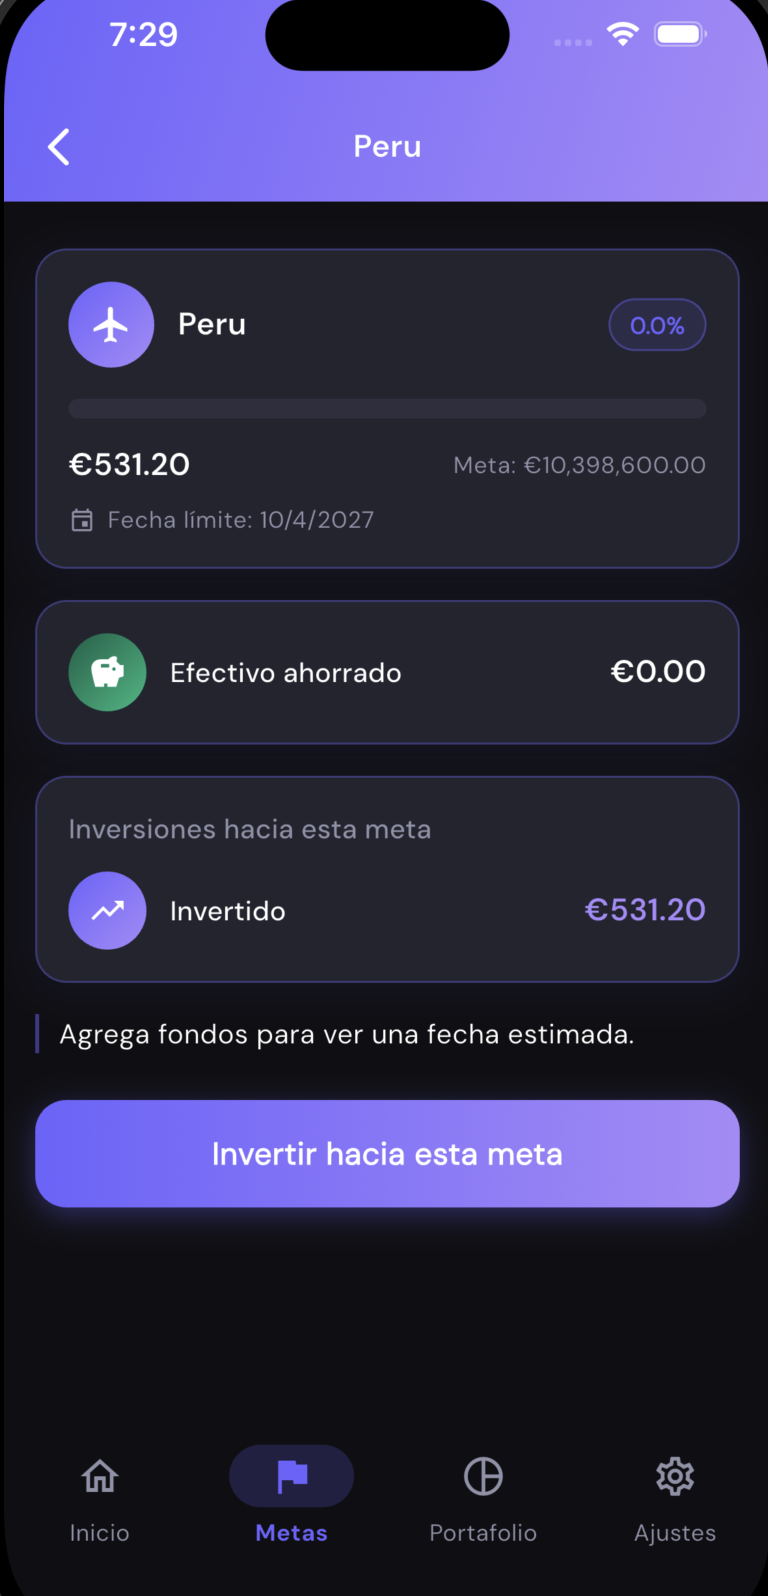
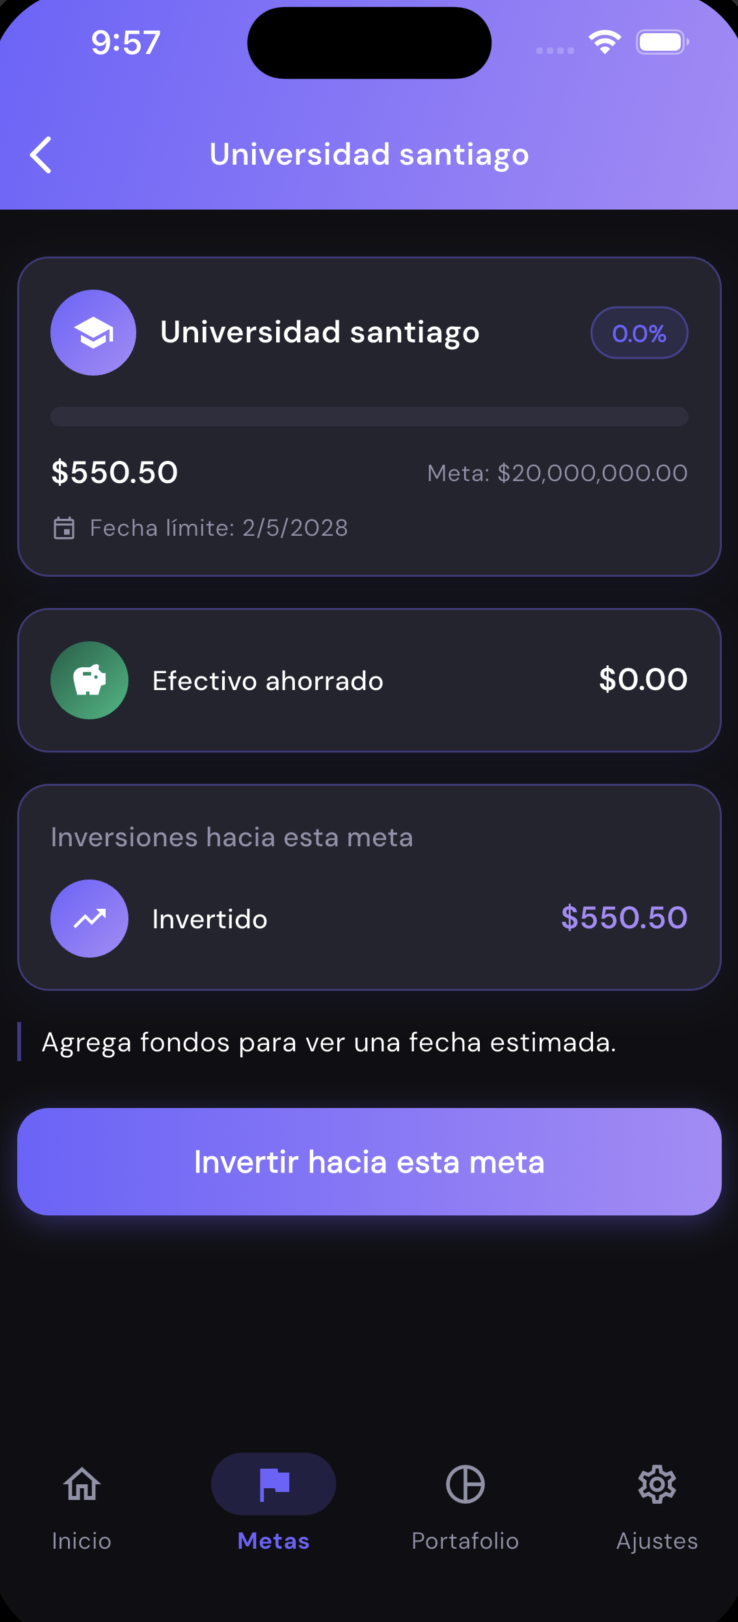
claude: docs: screenshots — Owl History dark mode (02b/02c) + Goal Detail light/dark (08b, S18 gap)

diff --git a/docs/design/screenshots/SCREENS.md b/docs/design/screenshots/SCREENS.md
@@ -25,8 +25,8 @@
 |----|--------|-------|----------------|-------|------|
 | 01 | Home / Dashboard | `/home` | `dashboard/presentation/screens/dashboard_screen.dart` | `light_mode/01_home.png` | `dark_mode/01_home.png` |
 | 02 | Owl AI Sheet | `/home` → Owl AI button | `dashboard/presentation/screens/dashboard_screen.dart` (`_OwlAdvisorSheet`) | `light_mode/02_owl_ai.png` | `dark_mode/02_owl_ai.png` |
-| 02b | Owl History (list) | `/home/owl-history` | `dashboard/presentation/screens/owl_history_screen.dart` | `light_mode/02b_owl_history.png` | — |
-| 02c | Owl History detail (sheet) | `/home/owl-history` → tap session | `dashboard/presentation/screens/owl_history_screen.dart` (`_OwlHistoryDetailSheet`) | `light_mode/02c_owl_history_detail.png` | — |
+| 02b | Owl History (list) | `/home/owl-history` | `dashboard/presentation/screens/owl_history_screen.dart` | `light_mode/02b_owl_history.png` | `dark_mode/02b_owl_history.png` |
+| 02c | Owl History detail (sheet) | `/home/owl-history` → tap session | `dashboard/presentation/screens/owl_history_screen.dart` (`_OwlHistoryDetailSheet`) | `light_mode/02c_owl_history_detail.png` | `dark_mode/02c_owl_history_detail.png` |
 | 03 | Recent Activity | `/home/activity` | `dashboard/presentation/screens/dashboard_screen.dart` (activity list) | `light_mode/03_recent_activity.png` | `dark_mode/03_recent_activity.png` |
 | 04 | Buy Asset | `/home/buy-asset` | `dashboard/presentation/screens/buy_asset_screen.dart` | `light_mode/04_buy_asset.png` | `dark_mode/04_buy_asset.png` |
 | 05 | Sell Asset (list) | `/home/sell-asset` | `dashboard/presentation/screens/sell_asset_screen.dart` | `light_mode/05_sell_asset.png` | `dark_mode/05_sell_asset.png` |
@@ -42,7 +42,7 @@
 |----|--------|-------|----------------|-------|------|
 | 08 | Goals list | `/goals` | `goals/presentation/goals_screen.dart` | `light_mode/08_goals.png` | `dark_mode/08_goals.png` |
 | 09 | New Goal (sheet) | `/goals` → + button | `goals/presentation/widgets/create_goal_sheet.dart` | `light_mode/09_new_goal.png` | `dark_mode/09_new_goal.png` |
-| 08b | Goal Detail | `/goals/:goalId` | `goals/presentation/goal_detail_screen.dart` | — | — |
+| 08b | Goal Detail | `/goals/:goalId` | `goals/presentation/goal_detail_screen.dart` | `light_mode/08b_goal_detail.png` | `dark_mode/08b_goal_detail.png` |
 
 ---
 
